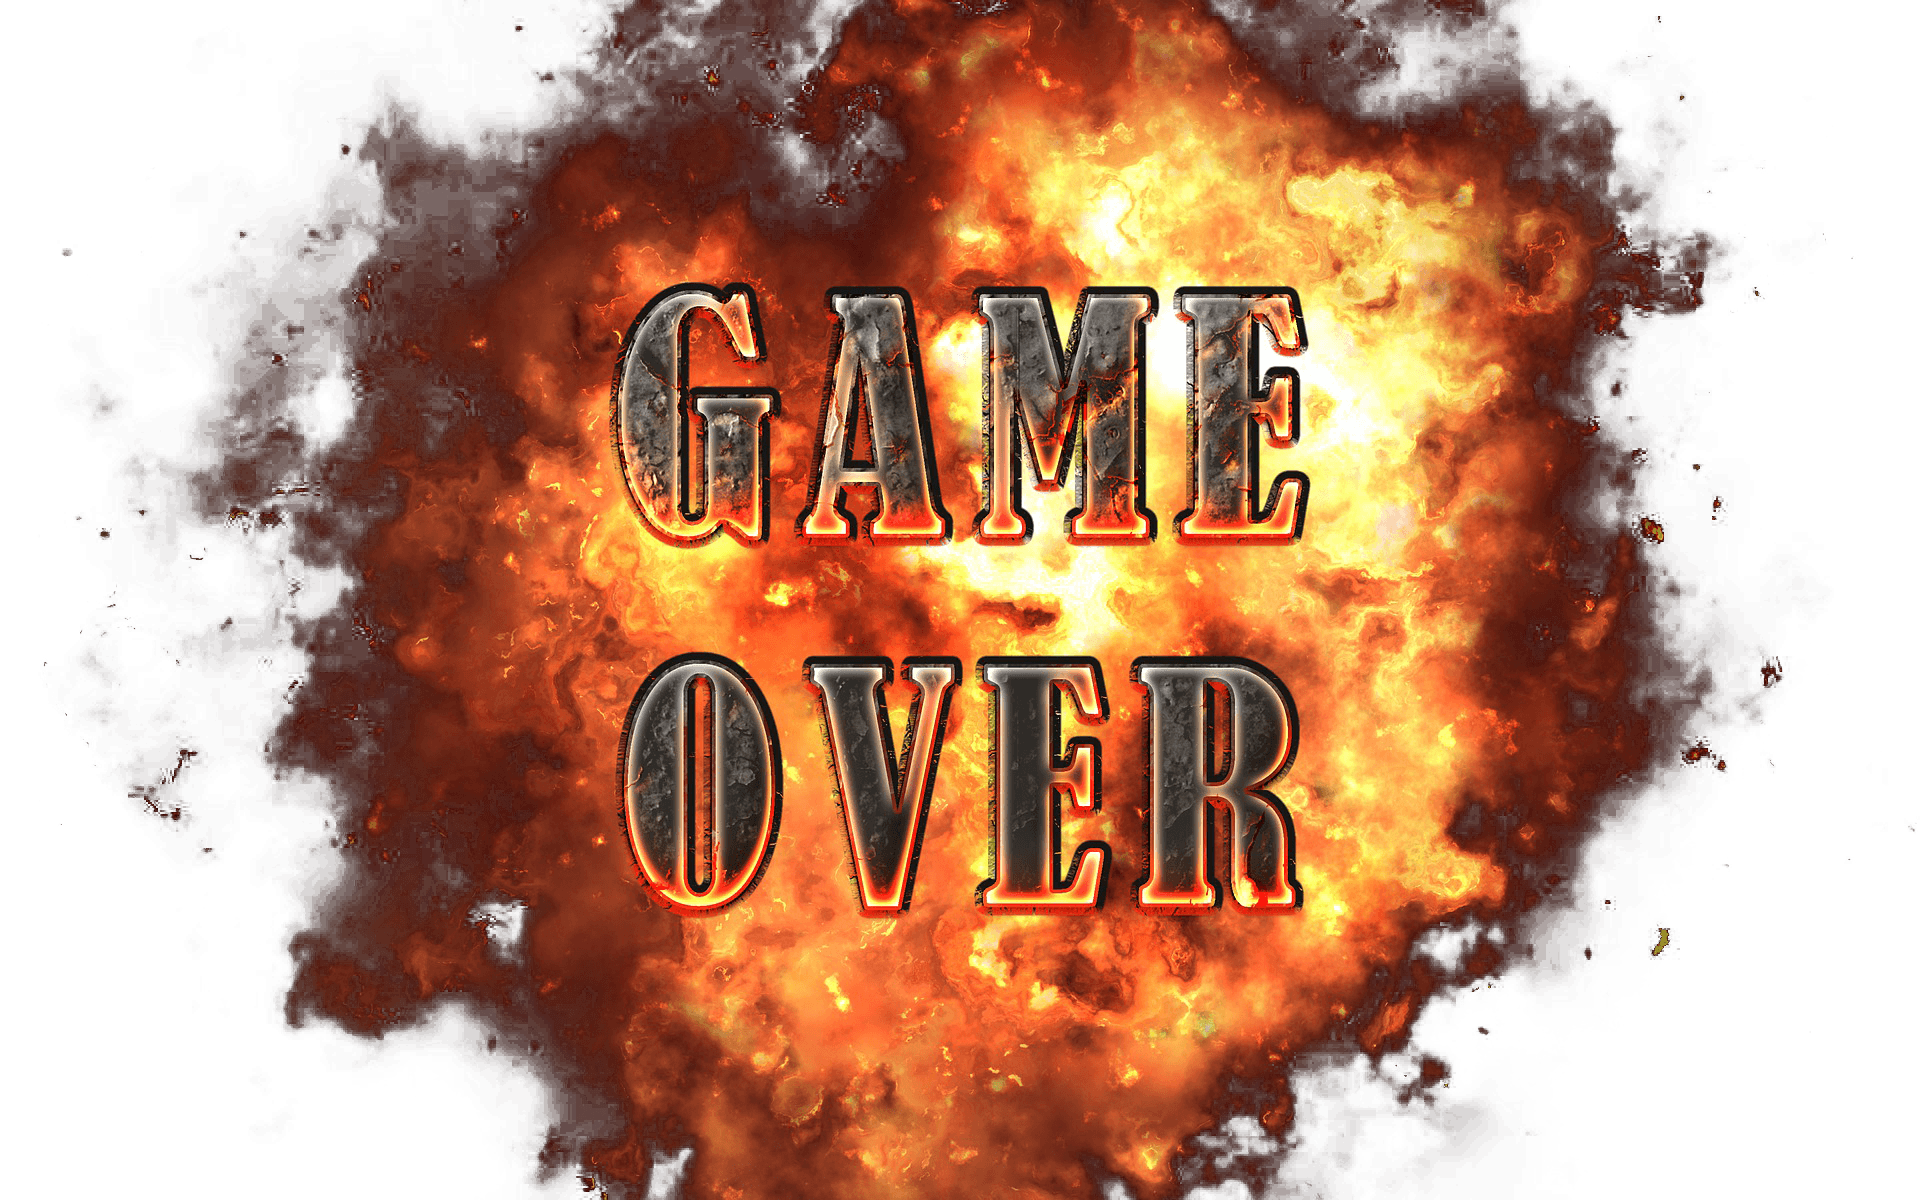
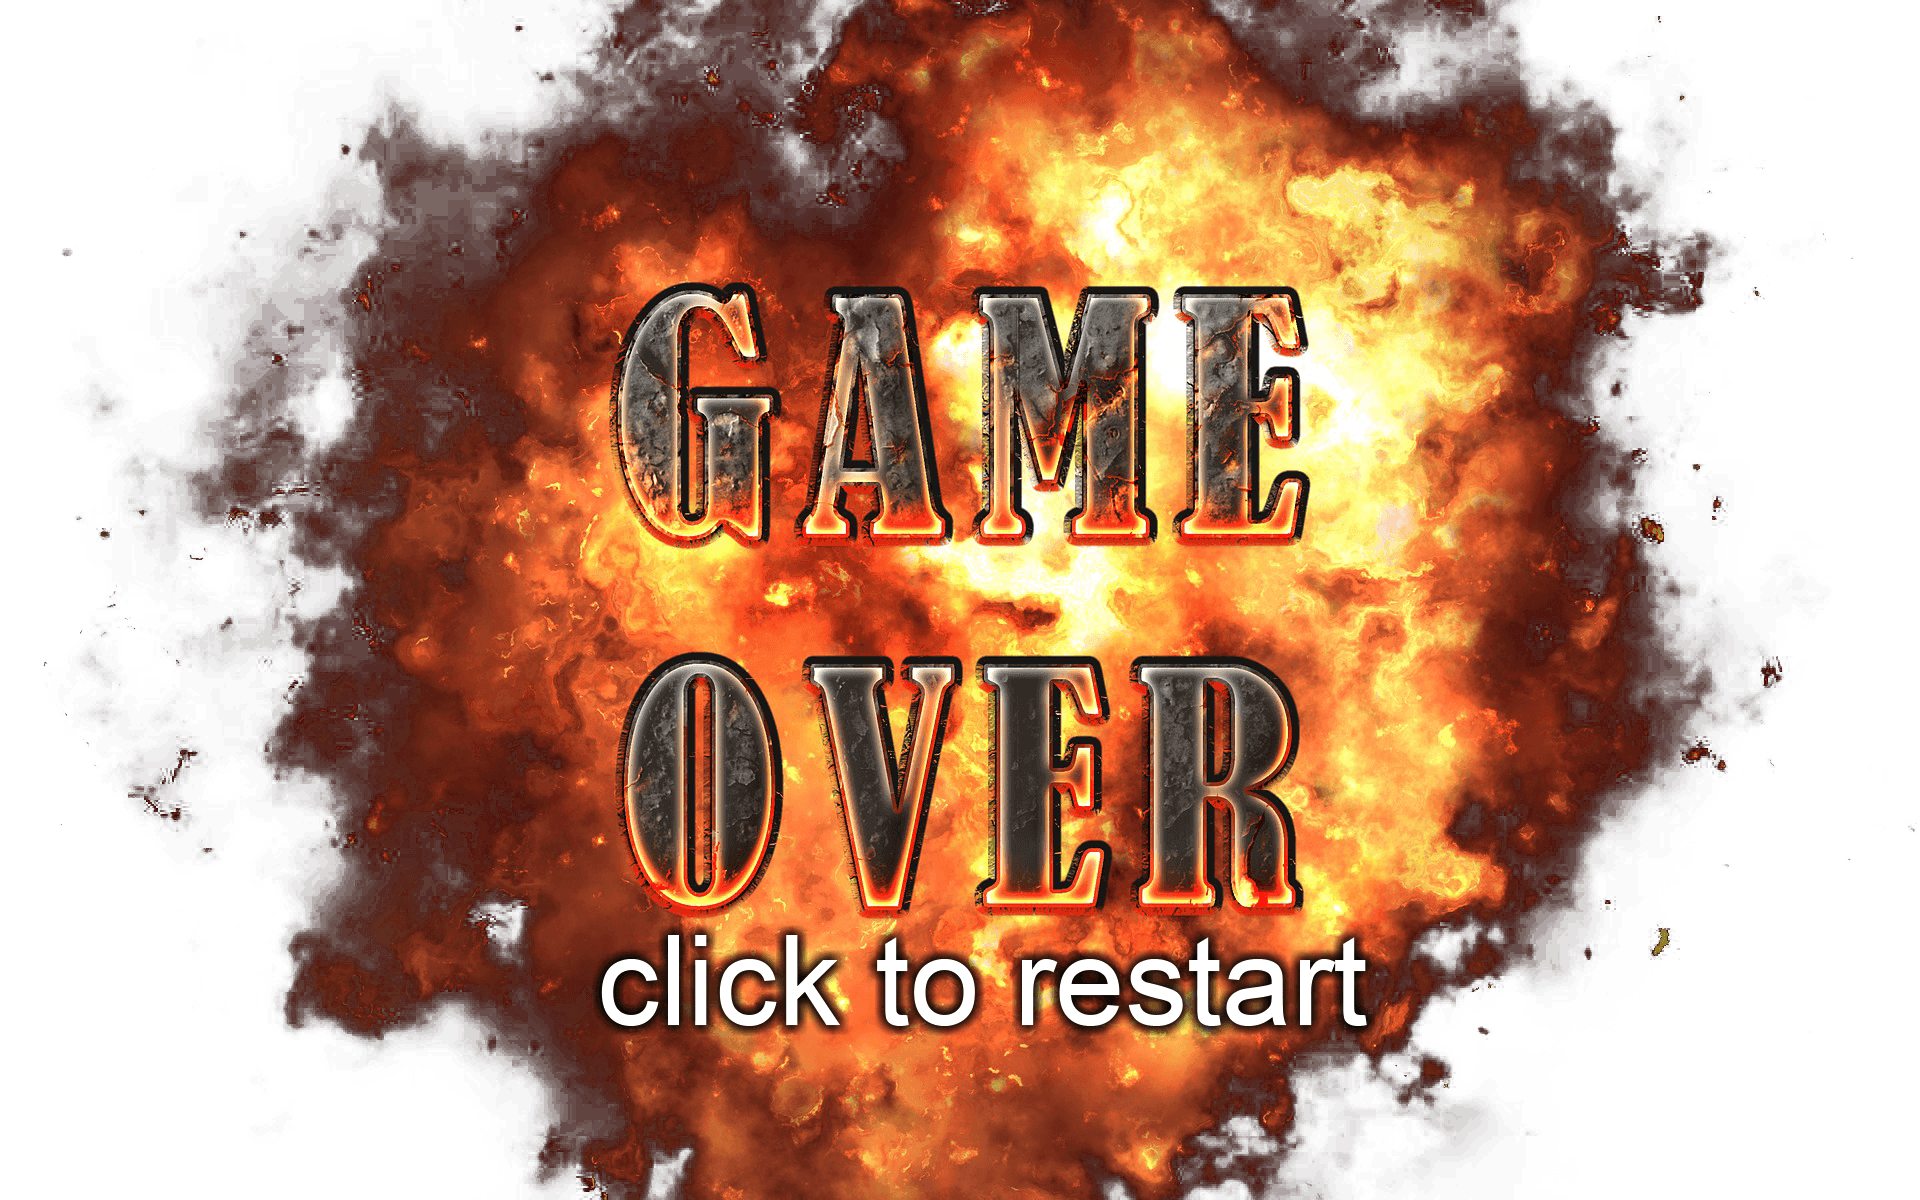
corrected positions of lines

Changed region(s): [[0.3125, 0.7708, 0.7188, 0.8633]]

diff --git a/index.html b/index.html
@@ -27,16 +27,17 @@
                     </div>
                 </div>
             </section>
-            <section>
-                <div id="line-1" class="line horizontalLine " style="top:395px;"></div>
-                <div id="line-2" class="line horizontalLine " style="top:530px;"></div>
-                <div id="line-3" class="line horizontalLine " style="top:663px;"></div>
-                <div id="line-4" class="line vertikalLine " style="top:535px; left:213px;"></div>
-                <div id="line-5" class="line vertikalLine" style="top:535px; left:348px;"></div>
-                <div id="line-6" class="line vertikalLine" style="top:535px; left:481px;"></div>
-                <div id="line-7" class="line diagonalLineRight" style="top:530px; left:348px;"></div>
-                <div id="line-8" class="line diagonalLineLeft" style="top:530px; left:348px;"></div>
-
+            <section class="lineGroup">
+                <div>
+                    <div id="line-1" class="line horizontalLine " style="top:60px; left: 0px;"></div>
+                    <div id="line-2" class="line horizontalLine " style="top:195px; left: 0px;"></div>
+                    <div id="line-3" class="line horizontalLine " style="top:330px; left: 0px;"></div>
+                    <div id="line-4" class="line vertikalLine " style="top:194px; left:-135px;"></div>
+                    <div id="line-5" class="line vertikalLine" style="top:194px; left:0px;"></div>
+                    <div id="line-6" class="line vertikalLine" style="top:194px; left:135px;"></div>
+                    <div id="line-7" class="line diagonalLineRight" style="top:195px; left:0px;"></div>
+                    <div id="line-8" class="line diagonalLineLeft" style="top:195px; left:0px;"></div>
+                </div>
             </section>
             <section>
 
@@ -80,7 +81,7 @@
 
 
                 <section>
-                    <img src="src/img/gameover.png" alt="" id="gameOver" class="d-none">
+                    <img src="src/img/gameover.png" alt="" id="gameOver" class="d-none" onclick="reset()">
                 </section>
 
 

diff --git a/src/js/script.js b/src/js/script.js
@@ -65,11 +65,11 @@ function checkForWin() {
     }
     if (fields[0] == fields[4] && fields[4] == fields[8] && fields[0]) {
         winner = fields[0];
-        document.getElementById('line-7').style.transform = 'scaleX(1) scaleY(1) rotate(45deg)';
+        document.getElementById('line-7').style.transform = 'scaleX(1.3) scaleY(1.3) rotate(45deg)';
     }
     if (fields[2] == fields[4] && fields[4] == fields[6] && fields[2]) {
         winner = fields[2];
-        document.getElementById('line-8').style.transform = 'scaleX(1) scaleY(1) rotate(-45deg)';
+        document.getElementById('line-8').style.transform = 'scaleX(1.3) scaleY(1.3) rotate(-45deg)';
     }
 
     if (winner) {
@@ -80,4 +80,30 @@ function checkForWin() {
         }, 1000);
     }
 
+}
+
+
+function reset() {
+    let shapes = document.getElementsByClassName('shapes');
+
+    document.getElementById('gameOver').classList.add('d-none');
+    for (let i = 0; i < shapes.length; i++) {
+        shapes[i].classList.add('d-none')
+
+    }
+
+    document.getElementById('line-1').style.transform = 'scaleX(0) ';
+    document.getElementById('line-2').style.transform = 'scaleX(0)';
+    document.getElementById('line-3').style.transform = 'scaleX(0) ';
+    document.getElementById('line-4').style.transform = 'scaleX(0) scaleY(0) rotate(90deg)';
+    document.getElementById('line-5').style.transform = 'scaleX(0) scaleY(0) rotate(90deg)';
+    document.getElementById('line-6').style.transform = 'scaleX(0) scaleY(0) rotate(90deg)';
+    document.getElementById('line-7').style.transform = 'scaleX(0) scaleY(0) rotate(45deg)';
+    document.getElementById('line-8').style.transform = 'scaleX(0) scaleY(0) rotate(-45deg)';
+
+    fields = [];
+    gameOver = false;
+    currentShape = 'cross';
+    document.getElementById('player-1').classList.remove('inactive');
+    document.getElementById('player-2').classList.add('inactive');
 }

diff --git a/src/css/styles.css b/src/css/styles.css
@@ -55,6 +55,19 @@ body {
     transform: scaleX(0.0) scaleY(0.0) rotate(45deg);
 }
 
+.diagonalLineLeft {
+    transform: scaleX(0.0) scaleY(0.0) rotate(-45deg);
+}
+
+.lineGroup {
+    position: absolute;
+    height: 399px;
+    width: 399px;
+    display: flex;
+    justify-content: center;
+    align-items: center;
+}
+
 @keyframes zoomIn {
     from {
         opacity: 0;
@@ -77,7 +90,7 @@ body {
     right: 0;
     z-index: 200;
     transition: transform 225ms ease-in-out;
-    animation: zoomIn 225ms ease-in-out;
+    animation: zoomIn 425ms ease-in-out;
 }
 
 .line {
@@ -88,10 +101,6 @@ body {
     margin-left: 20px;
     transition: transform 225ms ease-in-out;
     z-index: 100;
-}
-
-.diagonalLineLeft {
-    transform: scaleX(0.0) scaleY(0.0) rotate(-45deg);
 }
 
 .player {
